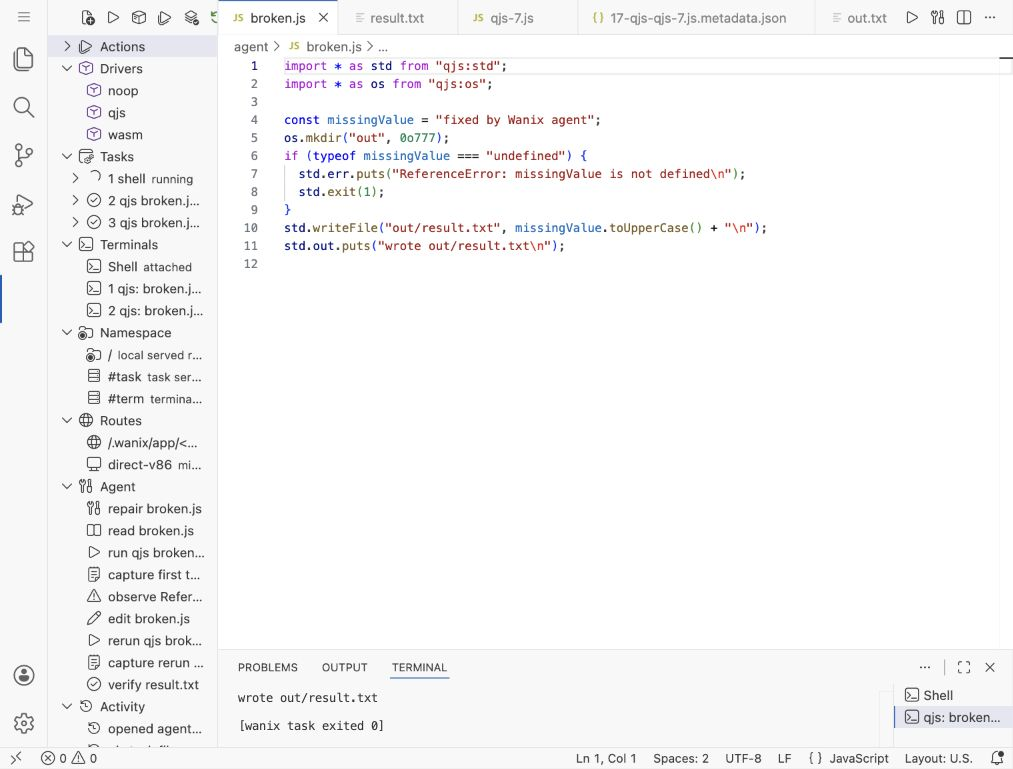
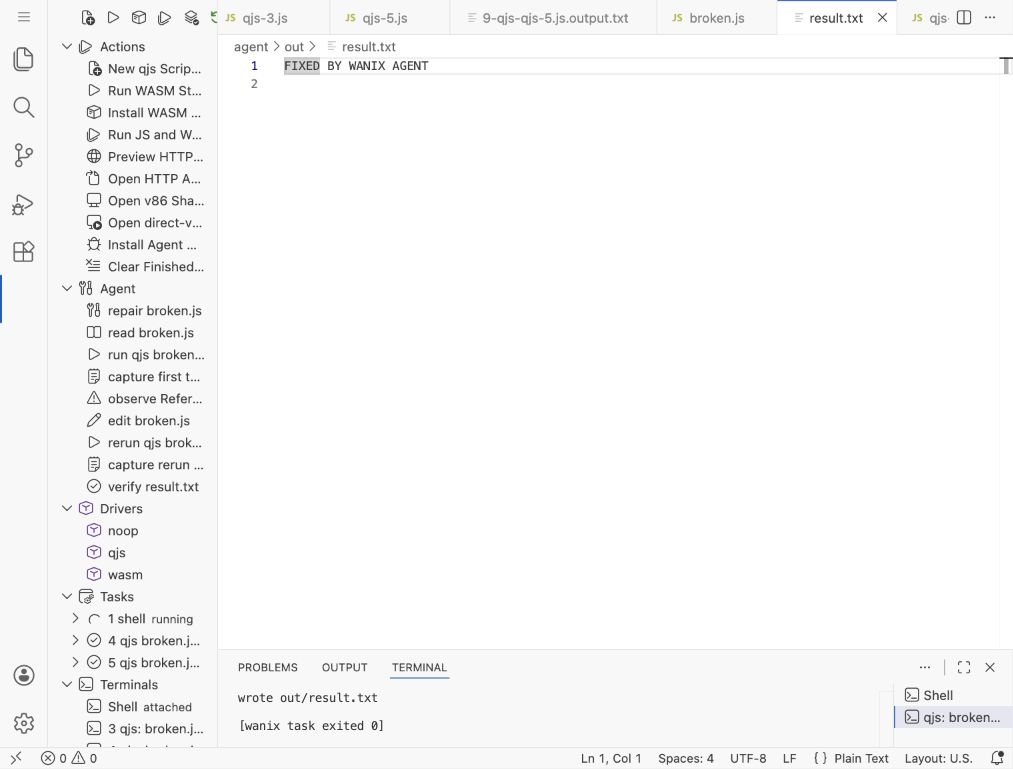
Promote workbench agent trace visibility

diff --git a/workbench/src/web/system-view.ts b/workbench/src/web/system-view.ts
@@ -87,12 +87,12 @@ type SystemTreeItem =
 
 const CATEGORIES: Array<SystemTreeItem & { type: "category" }> = [
 	{ type: "category", id: "actions", label: "Actions" },
+	{ type: "category", id: "agent", label: "Agent" },
 	{ type: "category", id: "drivers", label: "Drivers" },
 	{ type: "category", id: "tasks", label: "Tasks" },
 	{ type: "category", id: "terminals", label: "Terminals" },
 	{ type: "category", id: "namespace", label: "Namespace" },
 	{ type: "category", id: "routes", label: "Routes" },
-	{ type: "category", id: "agent", label: "Agent" },
 	{ type: "category", id: "activity", label: "Activity" },
 ];
 

diff --git a/docs/wanix-workbench-browser-dx.md b/docs/wanix-workbench-browser-dx.md
@@ -309,7 +309,8 @@ The latest pass makes that contract visible as its own system object. The
 Wanix sidebar now has an `Agent` section that resets for each install or repair
 run and records the concrete steps: install, read, run, capture transcript,
 observe the failure, edit source, rerun, capture output, and verify the result.
-Rows with filesystem artifacts open those Wanix paths directly.
+It sits directly under `Actions`, so the trace is visible while the repair is
+running. Rows with filesystem artifacts open those Wanix paths directly.
 
 ![Wanix agent action log](assets/wanix-workbench-browser-dx/35-agent-action-log.png)
 
